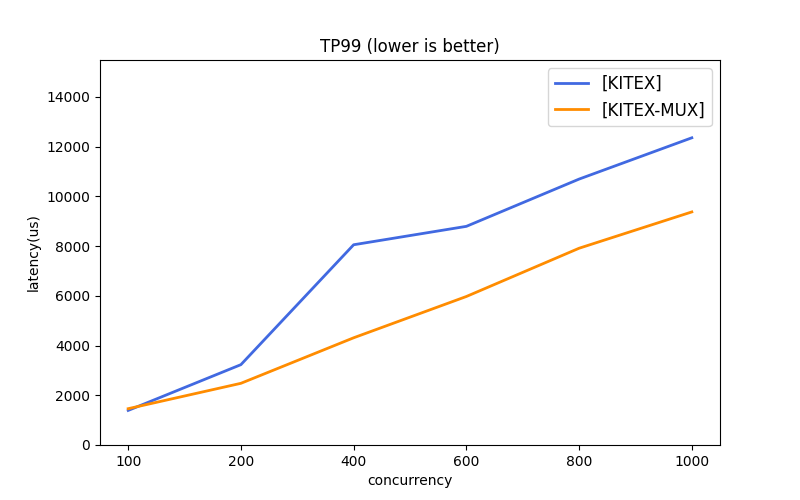
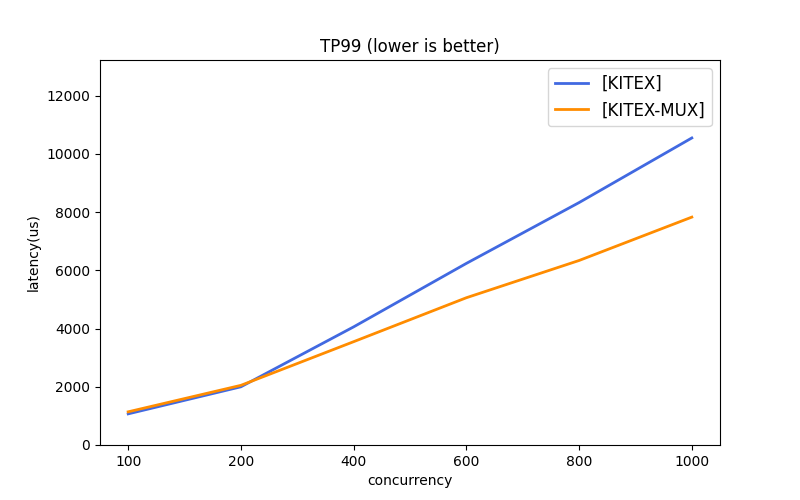
chore: upgrade to kitex v0.0.5

diff --git a/README.md b/README.md
@@ -116,90 +116,13 @@ CPU: 推荐配置 >=20核, 最低要求 >=4核
 
 ### 数据 (echo size 1KB)
 
-<table>
-   <tr><th> 并发数 </th><th> thrift </th><th> 传输 </th><th> TPS </th><th> TP99(ms) </th><th> TP999(ms) </th></tr>
-   <tr><td colspan="6"></td></tr>
+[Thrf Raw Data](scripts/reports/pb.csv)
+[Protobuf Raw Data](scripts/reports/pb.csv)
 
-   <tr><td rowspan="3"> 100 </td></tr>
-   <tr><td> kitex </td><td> 长连接池    </td><td> 249586.69 </td><td> 1.39ms </td><td> 9.23ms </td></tr>
-   <tr><td> kitex </td><td> 连接多路复用 </td><td> 223230.54 </td><td> 1.46ms </td><td> 2.46ms </td></tr>
-   <tr><td colspan="6"></td></tr>
-
-   <tr><td rowspan="3"> 200 </td></tr>
-   <tr><td> kitex </td><td> 长连接池    </td><td> 251653.10 </td><td> 3.23ms </td><td> 11.56ms </td></tr>
-   <tr><td> kitex </td><td> 连接多路复用 </td><td> 259954.09 </td><td> 2.48ms </td><td> 4.23ms </td></tr>
-   <tr><td colspan="6"></td></tr>
-
-   <tr><td rowspan="3"> 400 </td></tr>
-   <tr><td> kitex </td><td> 长连接池    </td><td> 251758.62 </td><td> 8.05ms </td><td> 13.76ms </td></tr>
-   <tr><td> kitex </td><td> 连接多路复用 </td><td> 284189.41 </td><td> 4.31ms </td><td> 7.57ms </td></tr>
-   <tr><td colspan="6"></td></tr>
-
-   <tr><td rowspan="3"> 600 </td></tr>
-   <tr><td> kitex </td><td> 长连接池    </td><td> 252804.29 </td><td> 8.79ms </td><td> 14.17ms </td></tr>
-   <tr><td> kitex </td><td> 连接多路复用 </td><td> 293386.70 </td><td> 5.97ms </td><td> 10.13ms </td></tr>
-
-   <tr><td rowspan="3"> 800 </td></tr>
-   <tr><td> kitex </td><td> 长连接池    </td><td> 249029.06 </td><td> 10.69ms </td><td> 14.75ms </td></tr>
-   <tr><td> kitex </td><td> 连接多路复用 </td><td> 301462.58 </td><td> 7.91ms </td><td> 13.99ms </td></tr>
-
-   <tr><td rowspan="3"> 1000 </td></tr>
-   <tr><td> kitex </td><td> 长连接池    </td><td> 243720.26 </td><td> 12.35ms </td><td> 16.68ms </td></tr>
-   <tr><td> kitex </td><td> 连接多路复用 </td><td> 303662.55 </td><td> 9.37ms </td><td> 14.98ms </td></tr>
-</table>
-
-<table>
-   <tr><th> 并发数 </th><th> protobuf </th><th> 传输 </th><th> TPS </th><th> TP99(ms) </th><th> TP999(ms) </th></tr>
-   <tr><td colspan="6"></td></tr>
-
-   <tr><td rowspan="5"> 100 </td></tr>
-   <tr><td> kitex </td><td> 连接多路复用 </td><td> 200806.62 </td><td> 1.66ms </td><td> 2.77ms </td></tr>
-   <tr><td> kitex </td><td> 长连接池    </td><td> 204468.11 </td><td> 1.78ms </td><td> 4.99ms </td></tr>
-   <tr><td> rpcx  </td><td> 连接多路复用 </td><td> 178903.63 </td><td> 2.09ms </td><td> 3.03ms </td></tr>
-   <tr><td> grpc  </td><td> 连接多路复用 </td><td> 104432.22 </td><td> 3.22ms </td><td> 5.09ms </td></tr>
-   <tr><td colspan="6"></td></tr>
-
-   <tr><td rowspan="5"> 200 </td></tr>
-   <tr><td> kitex </td><td> 连接多路复用 </td><td> 217474.75 </td><td> 2.85ms </td><td> 4.84ms </td></tr>
-   <tr><td> kitex </td><td> 长连接池    </td><td> 208105.67 </td><td> 2.62ms </td><td> 7.48ms </td></tr>
-   <tr><td> rpcx  </td><td> 连接多路复用 </td><td> 176322.84 </td><td> 4.58ms </td><td> 6.35ms </td></tr>
-   <tr><td> grpc  </td><td> 连接多路复用 </td><td> 110597.72 </td><td> 6.32ms </td><td> 8.97ms </td></tr>
-   <tr><td colspan="6"></td></tr>
-
-   <tr><td rowspan="5"> 400 </td></tr>
-   <tr><td> kitex </td><td> 连接多路复用 </td><td> 237156.98 </td><td> 5.02ms </td><td> 8.22ms </td></tr>
-   <tr><td> kitex </td><td> 长连接池    </td><td> 208927.09 </td><td> 4.70ms </td><td> 10.23ms </td></tr>
-   <tr><td> rpcx  </td><td> 连接多路复用 </td><td> 164350.65 </td><td> 9.46ms </td><td> 13.50ms </td></tr>
-   <tr><td> grpc  </td><td> 连接多路复用 </td><td> 112539.80 </td><td> 12.41ms </td><td> 17.37ms </td></tr>
-   <tr><td colspan="6"></td></tr>
-
-   <tr><td rowspan="5"> 600 </td></tr>
-   <tr><td> kitex </td><td> 连接多路复用 </td><td> 248210.98 </td><td> 7.35ms </td><td> 12.27ms </td></tr>
-   <tr><td> kitex </td><td> 长连接池    </td><td> 206585.82 </td><td> 6.70ms </td><td> 13.77ms </td></tr>
-   <tr><td> rpcx  </td><td> 连接多路复用 </td><td> 155863.11 </td><td> 14.95ms </td><td> 21.68ms </td></tr>
-   <tr><td> grpc  </td><td> 连接多路复用 </td><td> 110447.42 </td><td> 18.83ms </td><td> 26.65ms </td></tr>
-   <tr><td colspan="6"></td></tr>
-
-   <tr><td rowspan="5"> 800 </td></tr>
-   <tr><td> kitex </td><td> 连接多路复用 </td><td> 250869.87 </td><td> 9.61ms </td><td> 16.63ms </td></tr>
-   <tr><td> kitex </td><td> 长连接池    </td><td> 202175.99 </td><td> 10.00ms </td><td> 16.73ms </td></tr>
-   <tr><td> rpcx  </td><td> 连接多路复用 </td><td> 153935.56 </td><td> 19.69ms </td><td> 27.43ms </td></tr>
-   <tr><td> grpc  </td><td> 连接多路复用 </td><td> 110728.66 </td><td> 24.74ms </td><td> 34.08ms </td></tr>
-   <tr><td colspan="6"></td></tr>
-
-   <tr><td rowspan="5"> 1000 </td></tr>
-   <tr><td> kitex </td><td> 连接多路复用 </td><td> 254485.37 </td><td> 12.09ms </td><td> 20.89ms </td></tr>
-   <tr><td> kitex </td><td> 长连接池    </td><td> 198328.16 </td><td> 11.68ms </td><td> 17.25ms </td></tr>
-   <tr><td> rpcx  </td><td> 连接多路复用 </td><td> 154200.48 </td><td> 23.99ms </td><td> 32.87ms </td></tr>
-   <tr><td> grpc  </td><td> 连接多路复用 </td><td> 112437.62 </td><td> 29.55ms </td><td> 41.08ms </td></tr>
-   <tr><td colspan="6"></td></tr>
-
-</table>
-
-| Protocol | QPS                                  | TP99                                  | TP999                                  |
-| :------  | :----------------------------------- | :-----------------------------------: | :------------------------------------: |
-| Thrift   | ![image](docs/images/thrift_qps.png) | ![image](docs/images/thrift_tp99.png) | ![image](docs/images/thrift_tp999.png) |
-| Protobuf | ![image](docs/images/pb_qps.png)     | ![image](docs/images/pb_tp99.png)     | ![image](docs/images/pb_tp999.png)     |
+| Protocol | QPS                                  | TP99                                  | TP999                                  | Raw Data                                 |
+| :------  | :----------------------------------- | :-----------------------------------: | :------------------------------------: | :--------------------------------------: |
+| Thrift   | ![image](docs/images/thrift_qps.png) | ![image](docs/images/thrift_tp99.png) | ![image](docs/images/thrift_tp999.png) | [thrift.csv](scripts/reports/thrift.csv) |
+| Protobuf | ![image](docs/images/pb_qps.png)     | ![image](docs/images/pb_tp99.png)     | ![image](docs/images/pb_tp999.png)     | [pb.csv](scripts/reports/pb.csv)         |
 
 [kitex]: https://github.com/cloudwego/kitex
 [grpc]: https://github.com/grpc/grpc
